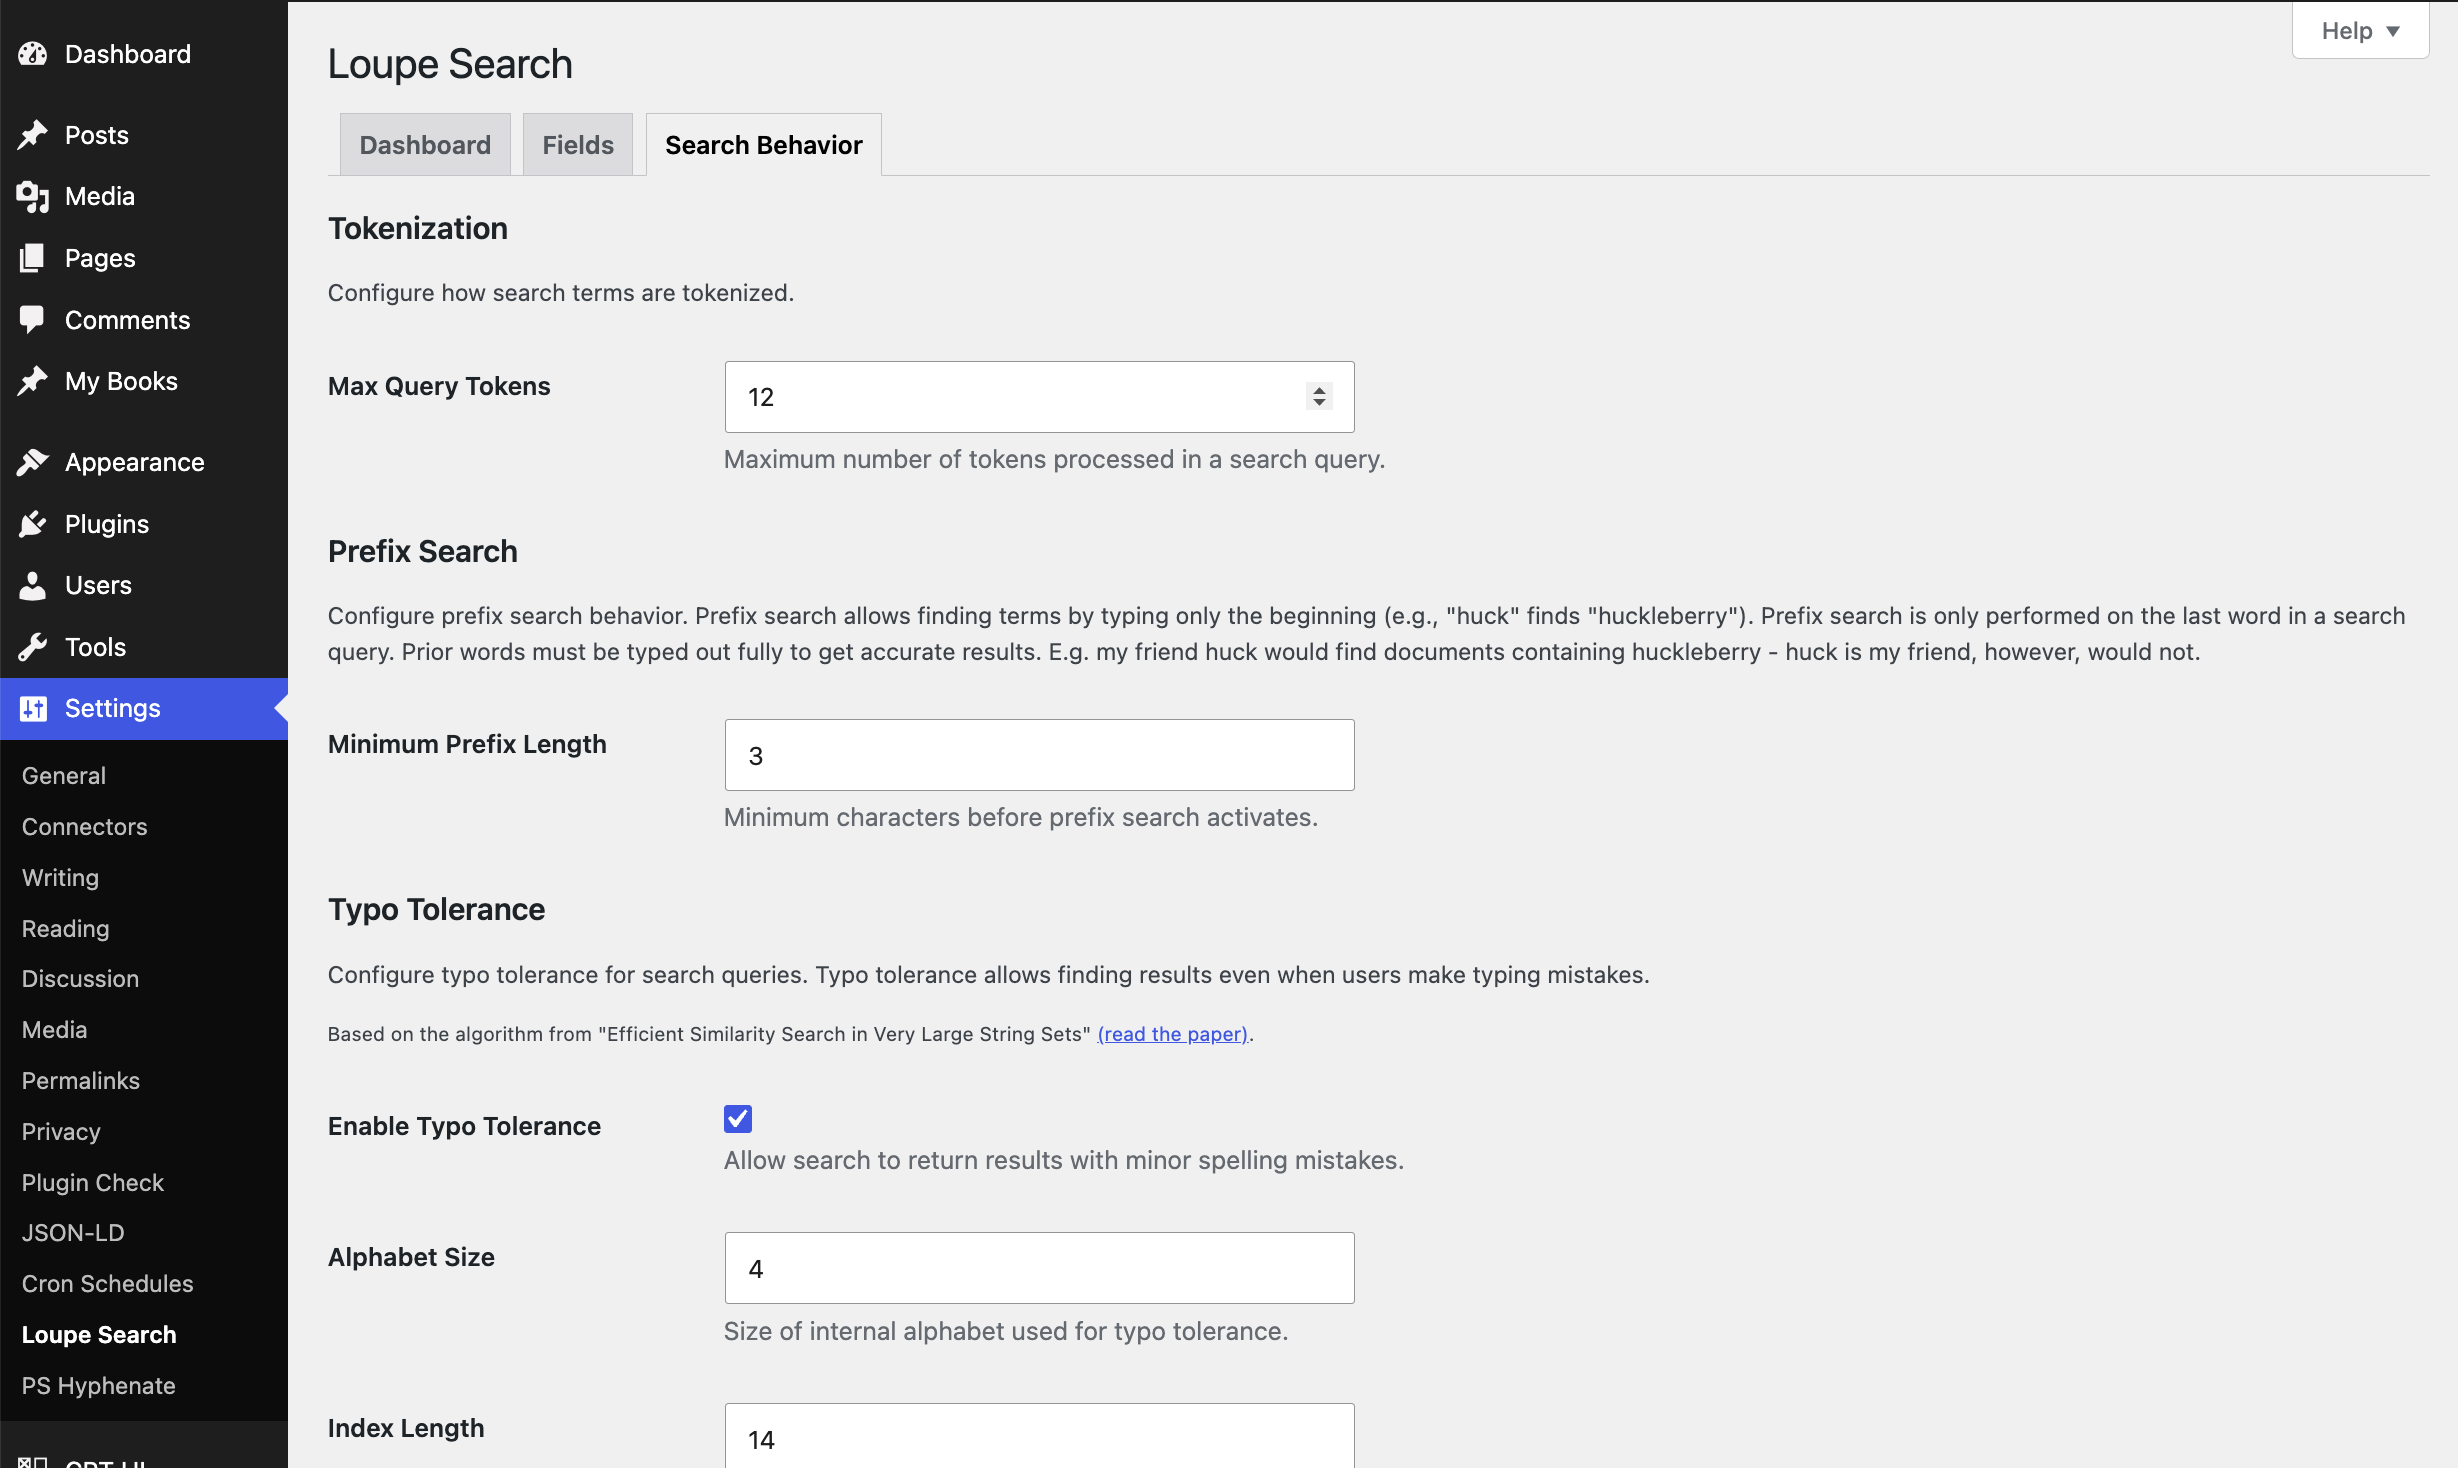
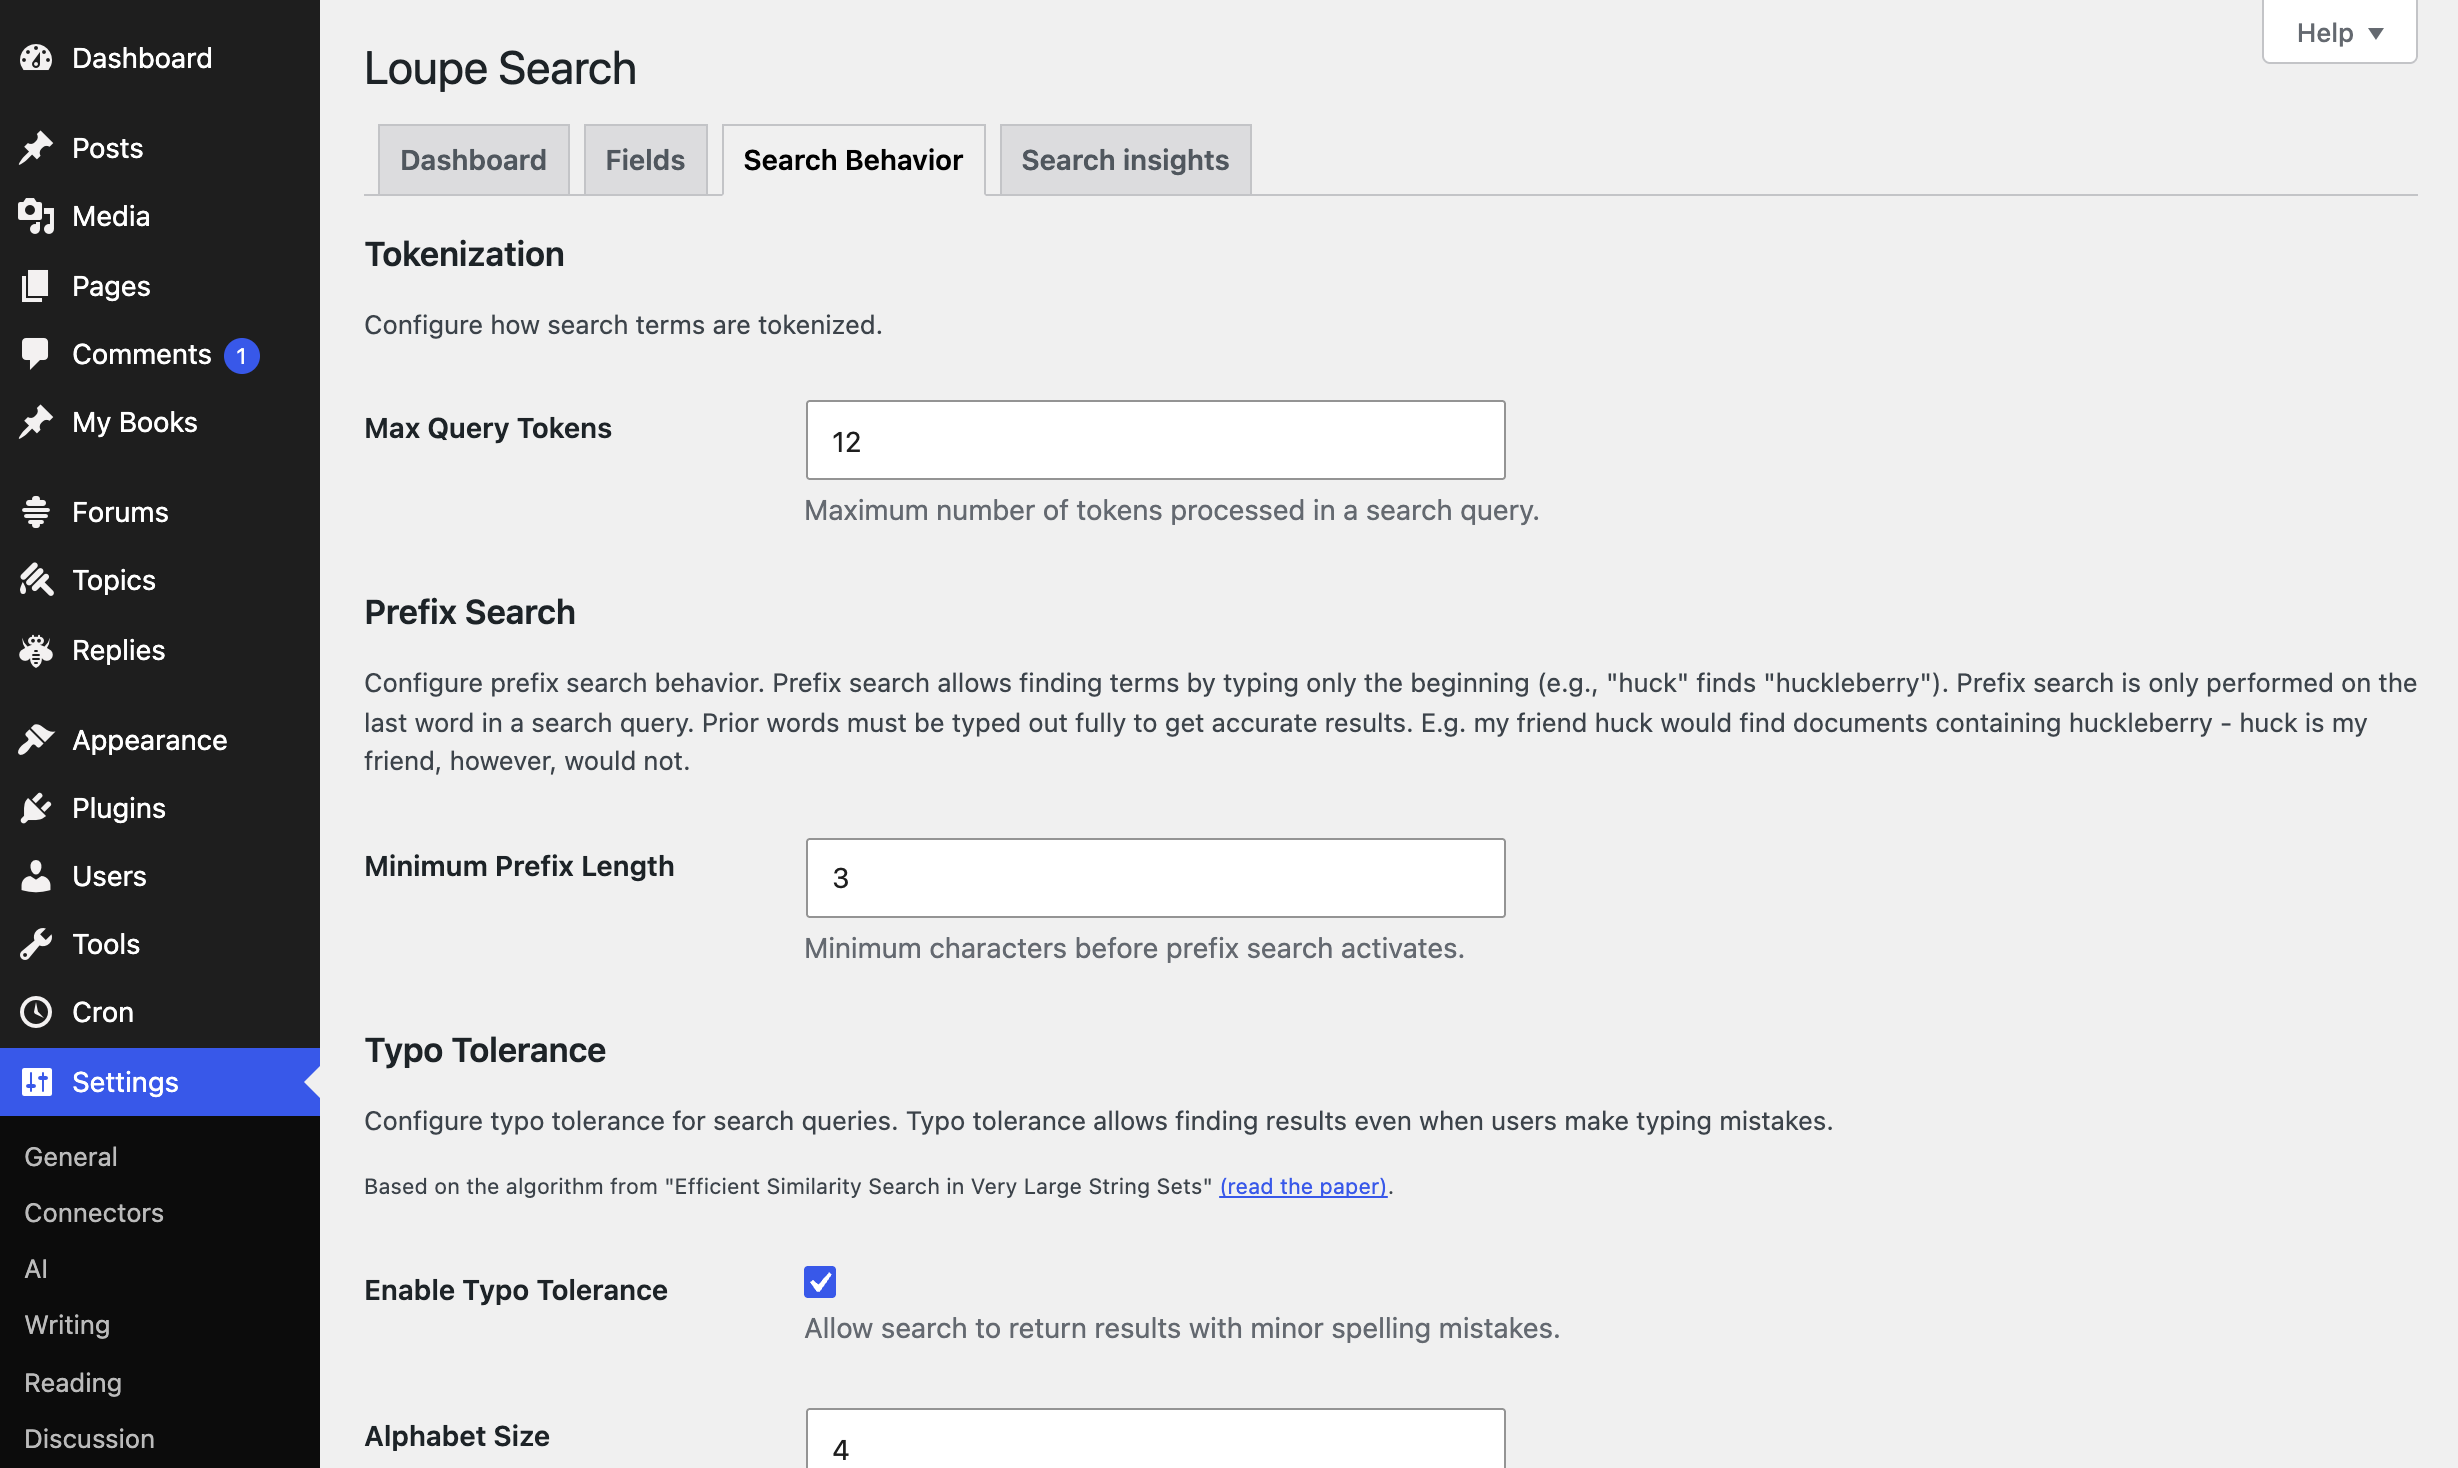
Release 1.5.6: fix weight display and Help overview, update screenshots (#88)
* Update WordPress.org screenshots and add Search insights

Also fix the readme FAQ, which still described multi-word searches as OR.

* Fix weight display and Help tab overview, retake screenshots

Weights defaulted to the string '1.0', which the number input shows
with the browser's decimal separator, and || replaced a saved 0 with
the default. The Help overview still listed three tabs.

* Bump version to 1.5.6

---------

diff --git a/lib/js/admin.js b/lib/js/admin.js
@@ -962,8 +962,9 @@ class WpLoupeFieldManager {
 		weightInput.step = '0.1';
 		weightInput.min = '0';
 		weightInput.name = `loupe_search_fields[${ postType }][${ fieldKey }][weight]`;
-		weightInput.value =
-			savedFieldSettings.weight || ( isTitle ? '2.0' : '1.0' );
+		weightInput.value = String(
+			savedFieldSettings.weight ?? ( isTitle ? 2 : 1 )
+		);
 		weightInput.className = 'small-text';
 		weightInput.disabled = ! indexableInput.checked;
 

diff --git a/includes/class-wp-loupe-settings.php b/includes/class-wp-loupe-settings.php
@@ -881,7 +881,7 @@ class WPLoupe_Settings_Page {
 			'content' => sprintf(
 				'<h2>%s</h2><p>%s</p><p>%s</p><div class="wp-loupe-help-sections"><div class="wp-loupe-help-section basic"><h3>%s</h3><p>%s</p><ul><li>%s</li><li>%s</li><li>%s</li></ul></div><div class="wp-loupe-help-section advanced"><h3>%s</h3><p>%s</p><ul><li>%s</li><li>%s</li><li>%s</li></ul></div></div>',
 				__( 'Loupe Search Help', 'loupe-search' ),
-				__( 'Loupe Search settings are organized into three tabs: Dashboard, Fields, and Search Behavior.', 'loupe-search' ),
+				__( 'Loupe Search settings are organized into tabs: Dashboard, Fields, Search Behavior, and Search insights.', 'loupe-search' ),
 				__( 'The Dashboard tab shows index health for each post type, lets you reindex your content, and reports whether the required PHP extensions are available.', 'loupe-search' ),
 				__( 'Fields', 'loupe-search' ),
 				__( 'Configure which content is searchable and how:', 'loupe-search' ),

diff --git a/loupe-search.php b/loupe-search.php
@@ -10,7 +10,7 @@
  * Plugin Name:       Loupe Search
  * Plugin URI:        https://github.com/soderlind/loupe-search
  * Description:       Fast, index-backed WordPress search with typo tolerance, phrase matching, exclusions, custom post types, real-time indexing, and a developer-friendly REST API.
- * Version:           1.5.5
+ * Version:           1.5.6
  * Author:            Per Soderlind
  * Author URI:        https://soderlind.no
  * License:           GPL-2.0+

diff --git a/CHANGELOG.md b/CHANGELOG.md
@@ -7,6 +7,19 @@ and this project adheres to [Semantic Versioning](https://semver.org/spec/v2.0.0
 
 ## [Unreleased]
 
+## [1.5.6] - 2026-11-15
+
+### Fixed
+
+- Field weights on the Fields tab no longer show as `1.0` (or `1,0` in some browser locales) next to saved weights shown as `1`, and a saved weight of `0` is no longer replaced by the default.
+- The settings Help overview now lists the Search insights tab.
+
+### Changed
+
+- readme.txt lists every public filter and the `loupe_search_searched` action; the full reference is in docs/filters.md.
+- The FAQ now explains that multi-word searches match all words, falling back to any word.
+- Updated WordPress.org screenshots, including the Search insights tab.
+
 ## [1.5.5] - 2026-11-14
 
 ### Added
